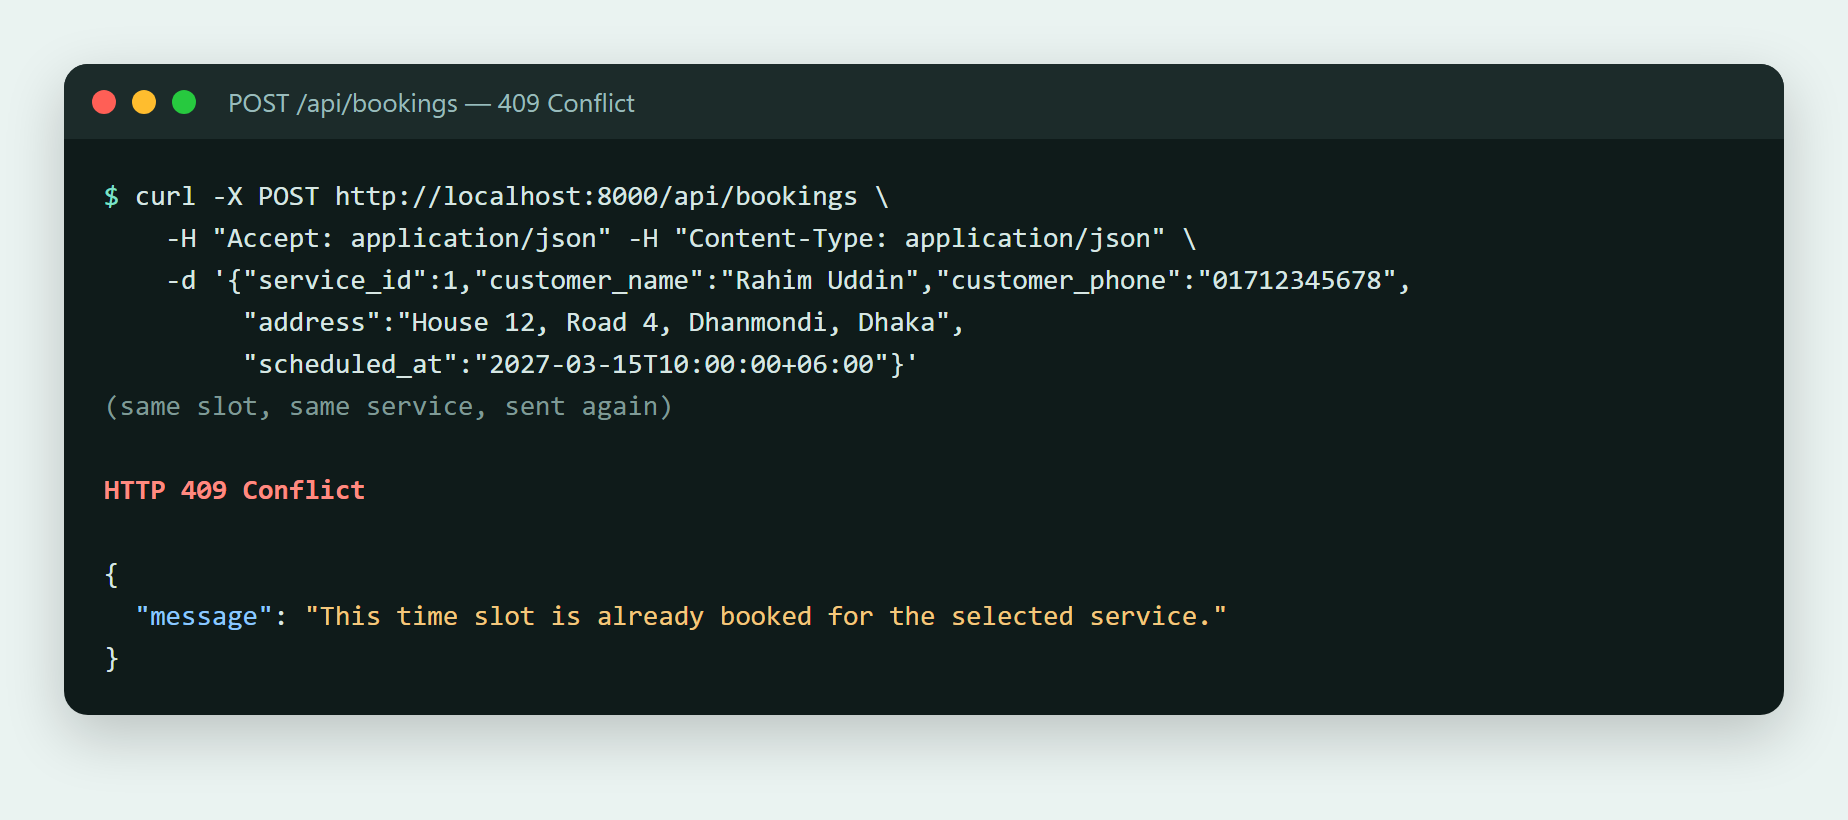
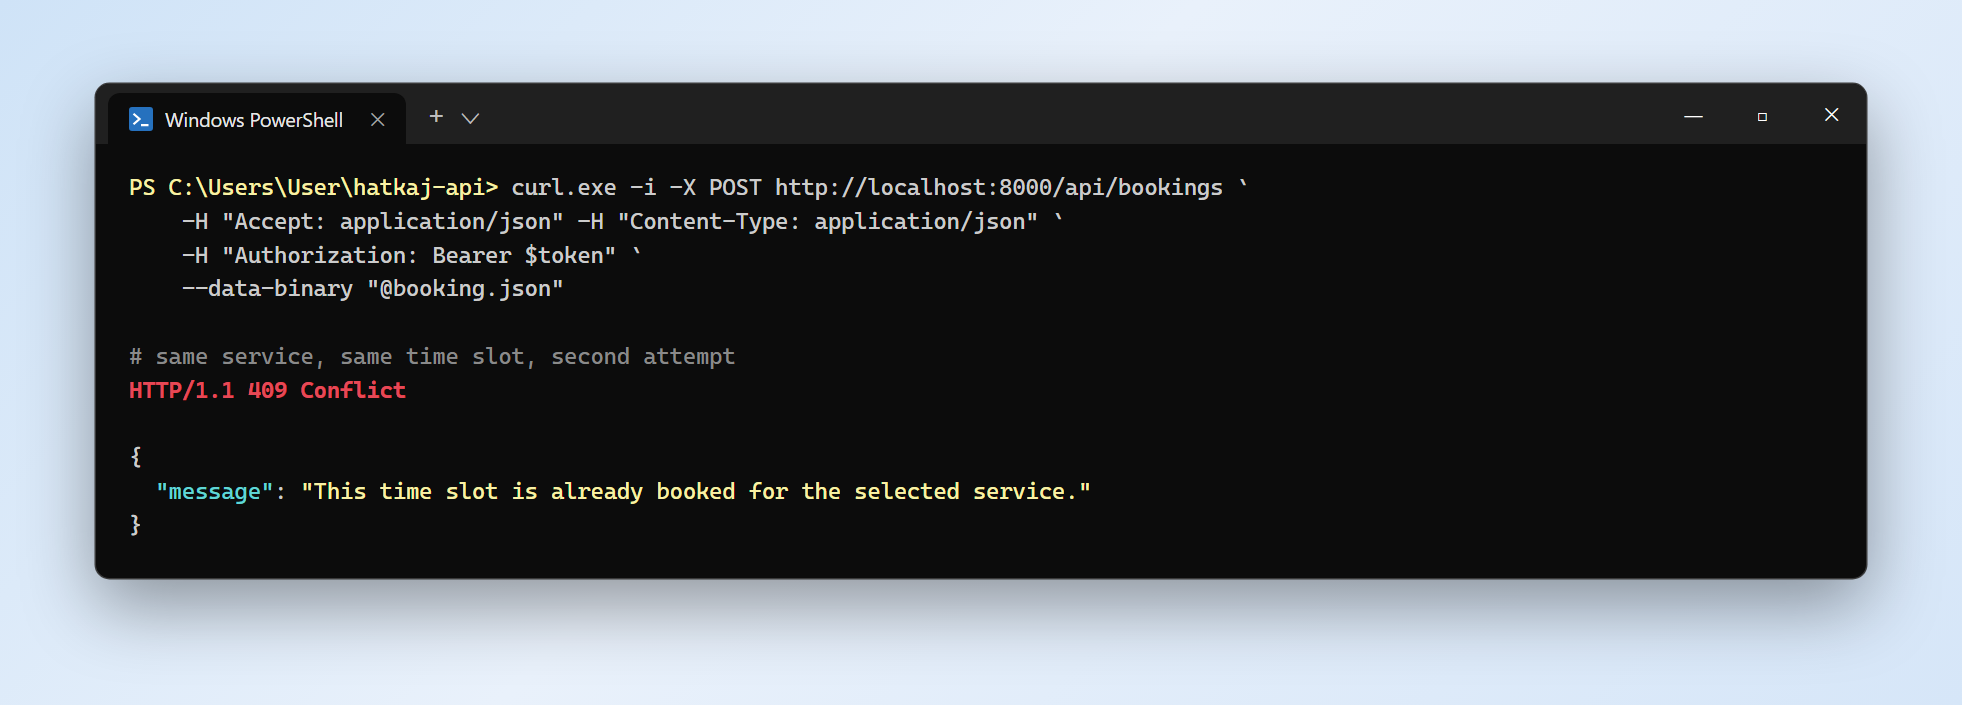
docs: update README with mobile client link, test count, and API details; refine BookingStatus enum documentation

Changed region(s): [[0.0, 0.0, 0.987, 0.8738]]

diff --git a/app/Enums/BookingStatus.php b/app/Enums/BookingStatus.php
@@ -20,7 +20,7 @@ enum BookingStatus: string
     }
 
     /**
-     * Allowed next statuses (used by the status-update endpoint in Checkpoint 2).
+     * Allowed next statuses (used by the status-update endpoint).
      *
      * @return array<int, self>
      */

diff --git a/README.md b/README.md
@@ -1,21 +1,23 @@
 # HatKaj API
 
+> **Mobile Client: [hatkaj-app](https://github.com/deXT-Sadman/hatkaj-app)**
+
 ![Laravel](https://img.shields.io/badge/Laravel-13-FF2D20?logo=laravel&logoColor=white)
 ![PHP](https://img.shields.io/badge/PHP-8.3+-777BB4?logo=php&logoColor=white)
 ![Database](https://img.shields.io/badge/SQLite-local-003B57?logo=sqlite&logoColor=white)
-![Tests](https://img.shields.io/badge/tests-19%20passing-brightgreen)
+![Tests](https://img.shields.io/badge/tests-38%20passing-brightgreen)
 
 REST API for **HatKaj**, a smart maintenance and service booking platform (AC servicing, plumbing, electrical, cleaning). It powers the [`hatkaj-app`](https://github.com/deXT-Sadman/hatkaj-app) Flutter client.
 
 The interesting parts: **double-booking prevention**, a **status workflow with enforced transitions**, and an **audit log** of every status change. It runs fully local on SQLite with no paid services.
 
-Real responses from the running API and test suite:
+Real responses from the running API and test suite (captured in Windows Terminal, signed in as the seeded demo user):
 
 | Create booking (201) | Slot conflict (409) |
 |---|---|
 | ![Creating a booking returns 201 with the booking and its service](docs/screenshots/create-booking.png) | ![Booking the same slot again returns 409 Conflict](docs/screenshots/conflict.png) |
 
-![All 19 tests passing](docs/screenshots/tests.png)
+![All 38 tests passing](docs/screenshots/tests.png)
 
 ## Contents
 - [Features](#features)
@@ -29,12 +31,15 @@ Real responses from the running API and test suite:
 - [Roadmap](#roadmap)
 
 ## Features
-- List active services and bookings (paginated, filterable by `status`, `service_id`, `date`)
-- Create bookings with validation and slot-conflict detection
+- Sanctum token auth (register, login, logout) and a profile with default contact details
+- List active services, and your own bookings (paginated, filterable by `status`, `service_id`, `date`)
+- Checkout preview with a server-side price breakdown (service fee, total) and a payment method choice; nothing is charged
+- Create bookings with validation and slot-conflict detection; the price is snapshotted on the booking
+- Ownership enforced: you can only see and change your own bookings
 - Status workflow: `pending → confirmed → completed`, or `cancelled`, with invalid moves rejected
 - Audit trail in `booking_status_logs` for every creation and status change
 - Consistent JSON errors (`404`, `409`, `422`) and Eloquent API Resources
-- 19 feature tests covering the conflict rules and transitions
+- 38 feature tests covering auth, checkout, ownership, the conflict rules and transitions
 
 ## Quick start
 
@@ -45,25 +50,31 @@ composer install
 cp .env.example .env
 php artisan key:generate
 touch database/database.sqlite        # PowerShell: ni database/database.sqlite
-php artisan migrate --seed            # 5 sample services + sample bookings
+php artisan migrate --seed            # 5 services, a demo user and sample bookings
 php artisan serve --host=0.0.0.0      # http://localhost:8000
 ```
 
 `--host=0.0.0.0` lets the Android emulator (`10.0.2.2:8000`) and real devices on your LAN reach the API.
 
+Seeded demo login: `demo@hatkaj.test` / `password`.
+
 Try it:
 
 ```bash
 curl -H "Accept: application/json" http://localhost:8000/api/services
+
+# log in, then use the returned token on authenticated routes
+curl -X POST http://localhost:8000/api/login -H "Accept: application/json" -H "Content-Type: application/json" \
+  -d '{"email":"demo@hatkaj.test","password":"password"}'
 ```
 
 ## API reference
 
-Base URL: `http://localhost:8000/api`. Send `Accept: application/json`. Auth and profile routes use Laravel Sanctum bearer tokens (`Authorization: Bearer <token>`); all `/bookings` routes also require a token and only see the caller's own bookings.
+Base URL: `http://localhost:8000/api`. Send `Accept: application/json`. `/register` and `/login` are throttled to 5 requests per minute. Auth and profile routes use Laravel Sanctum bearer tokens (`Authorization: Bearer <token>`); all `/bookings` routes also require a token and only see the caller's own bookings.
 
 | Method | Path | Description | Success |
 |---|---|---|---|
-| POST | `/register` | Create an account, returns `{ user, token }` | 201 |
+| POST | `/register` | Create an account (`name`, `email`, `password` + `password_confirmation`, optional `phone`, `default_address`), returns `{ user, token }` | 201 |
 | POST | `/login` | Log in, returns `{ user, token }` | 200 |
 | POST | `/logout` | Revoke the current token (auth) | 200 |
 | GET | `/profile` | Current user's profile (auth) | 200 |
@@ -109,7 +120,8 @@ Base URL: `http://localhost:8000/api`. Send `Accept: application/json`. Auth and
 Returns `data` (bookings with their `service`), plus `links` and `meta` (`current_page`, `last_page`, `total`, ...). The `meta.total` of a filtered query gives accurate counts for dashboards.
 
 ```bash
-curl -H "Accept: application/json" "http://localhost:8000/api/bookings?status=pending&per_page=5"
+curl -H "Accept: application/json" -H "Authorization: Bearer $TOKEN" \
+  "http://localhost:8000/api/bookings?status=pending&per_page=5"
 ```
 
 ### POST /bookings
@@ -117,12 +129,14 @@ curl -H "Accept: application/json" "http://localhost:8000/api/bookings?status=pe
 ```bash
 curl -X POST http://localhost:8000/api/bookings \
   -H "Accept: application/json" -H "Content-Type: application/json" \
+  -H "Authorization: Bearer $TOKEN" \
   -d '{
     "service_id": 1,
     "customer_name": "Rahim",
     "customer_phone": "01712345678",
     "address": "House 12, Road 4, Dhanmondi, Dhaka",
     "scheduled_at": "2026-12-30T10:00:00+06:00",
+    "payment_method": "cash_on_service",
     "notes": "Second floor"
   }'
 ```
@@ -130,9 +144,10 @@ curl -X POST http://localhost:8000/api/bookings \
 | Field | Rules |
 |---|---|
 | `service_id` | required, must be an **active** service |
-| `customer_name` | required, max 100 |
-| `customer_phone` | required, 7-20 digits, may start with `+` |
-| `address` | required, max 255 |
+| `customer_name` | required, max 100 (defaults to the profile name) |
+| `customer_phone` | required, 7-20 digits, may start with `+` (defaults to the profile phone) |
+| `address` | required, max 255 (defaults to the profile default address) |
+| `payment_method` | optional, `cash_on_service` (default) or `demo_wallet` |
 | `scheduled_at` | required, ISO 8601, must be in the future |
 | `notes` | optional, max 500 |
 
@@ -147,8 +162,10 @@ curl -X POST http://localhost:8000/api/bookings \
     "address": "House 12, Road 4, Dhanmondi, Dhaka",
     "scheduled_at": "2026-12-30T04:00:00+00:00",
     "status": "pending",
+    "payment_method": "cash_on_service",
+    "pricing": { "base_price": "1200.00", "service_fee": "60.00", "total_amount": "1260.00" },
     "notes": "Second floor",
-    "service": { "id": 1, "name": "AC Servicing", "price": "1200.00", "duration_minutes": 90 },
+    "service": { "id": 1, "name": "AC Servicing", "description": "Cleaning and gas check for split or window AC units.", "price": "1200.00", "duration_minutes": 90 },
     "created_at": "2026-11-21T12:00:00+00:00"
   }
 }
@@ -158,6 +175,7 @@ curl -X POST http://localhost:8000/api/bookings \
 
 | Code | Meaning | Body |
 |---|---|---|
+| 401 | Missing or invalid token | `{"message": "Unauthenticated."}` |
 | 422 | Validation failed | `{"message": "...", "errors": {"field": ["..."]}}` |
 | 409 | Slot already booked for that service | `{"message": "This time slot is already booked for the selected service."}` |
 
@@ -166,12 +184,14 @@ curl -X POST http://localhost:8000/api/bookings \
 ```bash
 curl -X PATCH http://localhost:8000/api/bookings/12/status \
   -H "Accept: application/json" -H "Content-Type: application/json" \
+  -H "Authorization: Bearer $TOKEN" \
   -d '{"status": "confirmed"}'
 ```
 
 | Code | Meaning |
 |---|---|
 | 200 | Updated booking (same shape as above) |
+| 403 | The booking belongs to another user |
 | 404 | Unknown booking id (JSON) |
 | 422 | Invalid status value, or a transition the workflow forbids, e.g. `{"message": "A completed booking cannot be changed to pending."}` |
 
@@ -194,8 +214,16 @@ stateDiagram-v2
 
 ```mermaid
 erDiagram
+    users ||--o{ bookings : "has many"
     services ||--o{ bookings : "has many"
     bookings ||--o{ booking_status_logs : "has many"
+    users {
+        bigint id PK
+        string name
+        string email UK
+        string phone
+        string default_address
+    }
     services {
         bigint id PK
         string name UK
@@ -206,12 +234,17 @@ erDiagram
     }
     bookings {
         bigint id PK
+        bigint user_id FK "nullable"
         bigint service_id FK
         string customer_name
         string customer_phone
         string address
         datetime scheduled_at
         string status
+        string payment_method
+        decimal base_price
+        decimal service_fee
+        decimal total_amount
         text notes
     }
     booking_status_logs {
@@ -226,6 +259,9 @@ erDiagram
 | Choice | Why |
 |---|---|
 | Index `bookings(service_id, scheduled_at)` | Serves the slot-conflict lookup |
+| Index `bookings(user_id, scheduled_at)` | Serves the per-user booking list |
+| Price snapshot on `bookings` | Later changes to `services.price` do not rewrite past orders |
+| `user_id` is nullable, `nullOnDelete` | Bookings that predate accounts stay valid |
 | Index `bookings(status)` | Serves the status filter and dashboard counts |
 | `service_id` is `restrictOnDelete` | A service with bookings cannot be deleted by accident. Use `is_active` to retire it |
 | `booking_status_logs` cascade on delete | The history is meaningless without its booking |
@@ -237,7 +273,8 @@ erDiagram
 HTTP request
    │
    ▼
-Route ─► Controller (thin) ─► FormRequest (validation)
+Route ─► auth:sanctum ─► Controller (thin) ─► FormRequest (validation)
+                                     └─► BookingPolicy (ownership → 403)
                  │
                  ▼
           BookingService  (business rules, DB transactions)
@@ -250,14 +287,15 @@ Route ─► Controller (thin) ─► FormRequest (validation)
 
 ```
 app/
-├── Enums/BookingStatus.php                 statuses + allowed transitions
+├── Enums/                                  BookingStatus (+ transitions), PaymentMethod
 ├── Exceptions/                             render themselves as JSON responses
 ├── Http/
-│   ├── Controllers/                        BookingController, ServiceController
-│   ├── Requests/                           StoreBookingRequest, UpdateBookingStatusRequest
-│   └── Resources/                          BookingResource, ServiceResource
-├── Models/                                 Service, Booking, BookingStatusLog
-└── Services/BookingService.php             create + changeStatus
+│   ├── Controllers/                        Auth, Profile, Service, Booking
+│   ├── Requests/                           Register, Login, UpdateProfile, StoreBooking, UpdateBookingStatus
+│   └── Resources/                          Booking, Service, User
+├── Models/                                 User, Service, Booking, BookingStatusLog
+├── Policies/BookingPolicy.php              only the owner may change a booking
+└── Services/BookingService.php             preview, create, changeStatus, price quote
 ```
 
 ## Testing
@@ -267,7 +305,10 @@ php artisan test
 ```
 
 Feature tests use in-memory SQLite with factories. They cover:
-- booking creation, payload validation and the audit log
+- registration, login, logout and profile updates
+- booking creation, payload validation, price snapshot and the audit log
+- checkout preview, payment method validation and profile defaults
+- bookings scoped to the signed-in user, and 403 on someone else's booking
 - same slot rejected, **overlapping** slots rejected, back-to-back slots allowed
 - same time allowed for a *different* service
 - a cancelled booking freeing its slot
@@ -281,10 +322,13 @@ Feature tests use in-memory SQLite with factories. They cover:
 - **Service layer only where it earns its keep.** `BookingService` holds real business rules. Listing services is a plain read, so its controller queries the model directly.
 - **Exceptions render themselves.** `SlotConflictException` and `InvalidStatusTransitionException` return their own JSON responses, keeping controllers free of try/catch.
 - **Server-side totals.** `meta.total` on filtered queries lets clients show counts without downloading every booking.
-- **No authentication yet.** A deliberate scope limit for a portfolio project.
+- **Token auth for a mobile client.** Sanctum personal access tokens fit a Flutter app better than cookie sessions. Login and register are throttled.
+- **Prices are snapshotted.** The fee is computed in integer cents and stored on the booking, so changing a service price or the fee percentage never alters existing orders.
+- **No real payments.** `payment_method` is recorded for the client to display; nothing is charged.
 
 ## Roadmap
-- Sanctum authentication with per-customer bookings
+- Provider/admin roles, so someone other than the customer can confirm and complete bookings
+- Real payment gateway integration
 - Provider assignment and availability windows
 - Rate limiting on booking creation
 - OpenAPI/Swagger spec generated from the routes
